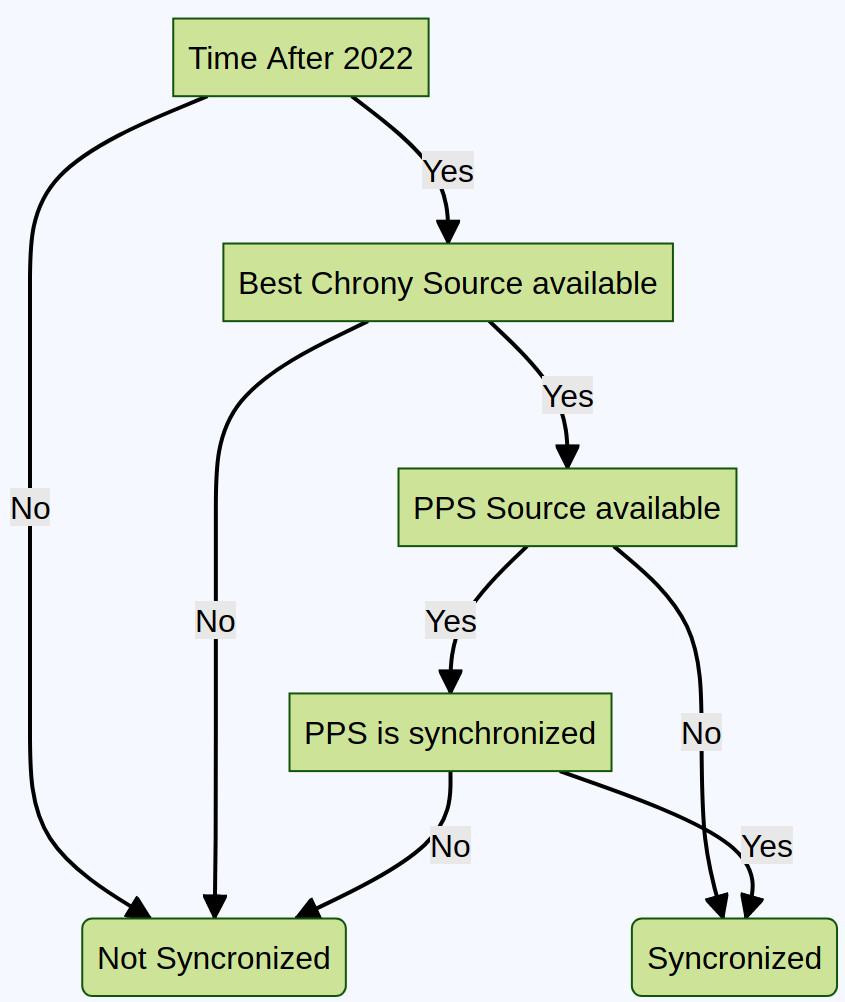
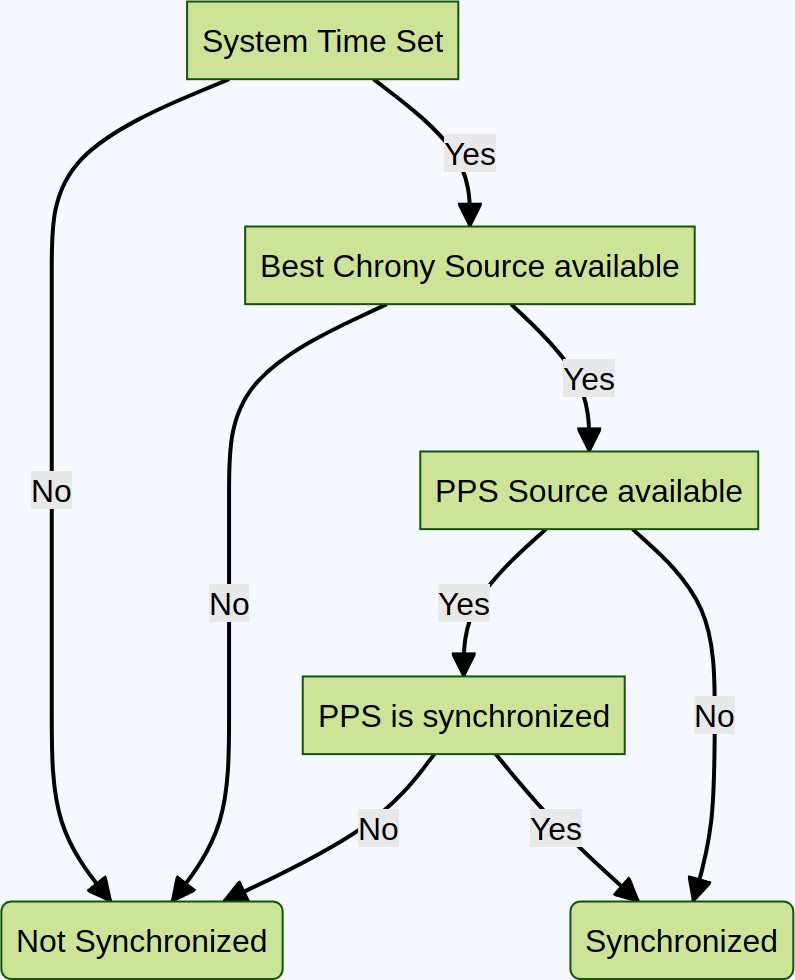
fixing typo

Changed region(s): [[0.0, 0.0, 1.0, 1.0], [0.7849, 0.5816, 0.8151, 0.6429], [0.8453, 0.5816, 0.8755, 0.6122]]

diff --git a/docs/features/timing.md b/docs/features/timing.md
@@ -21,6 +21,30 @@ connected and off-line environments.
 ## Time Synchronisation Decision Tree
 
 To decide whether the system is synchronized through NTP or PPS (GPS Receiver) we aanalyse the time sources of the sytem
+<!-- Mermaid Flowchart
+---
+title: Time Sync Decision
+---
+flowchart TD
+    ValidTime[System Time Set]
+
+    BestSource[Best Chrony Source available]
+    HasPPS[PPS Source available]
+    PPSsynced[PPS is synchronized]
+    %% HasRTC[RTC available]
+
+    No(Not Synchronized)
+    Yes(Synchronized)
+
+    ValidTime -->|No| No
+    ValidTime -->|Yes| BestSource
+    BestSource -->|No| No
+    BestSource -->|Yes| HasPPS
+    HasPPS -->|Yes| PPSsynced
+    HasPPS -->|No| Yes
+    PPSsynced -->|No| No
+    PPSsynced -->|Yes| Yes
+-->
 
 ![Network Overview](./time-syncronisation.jpg)
 
